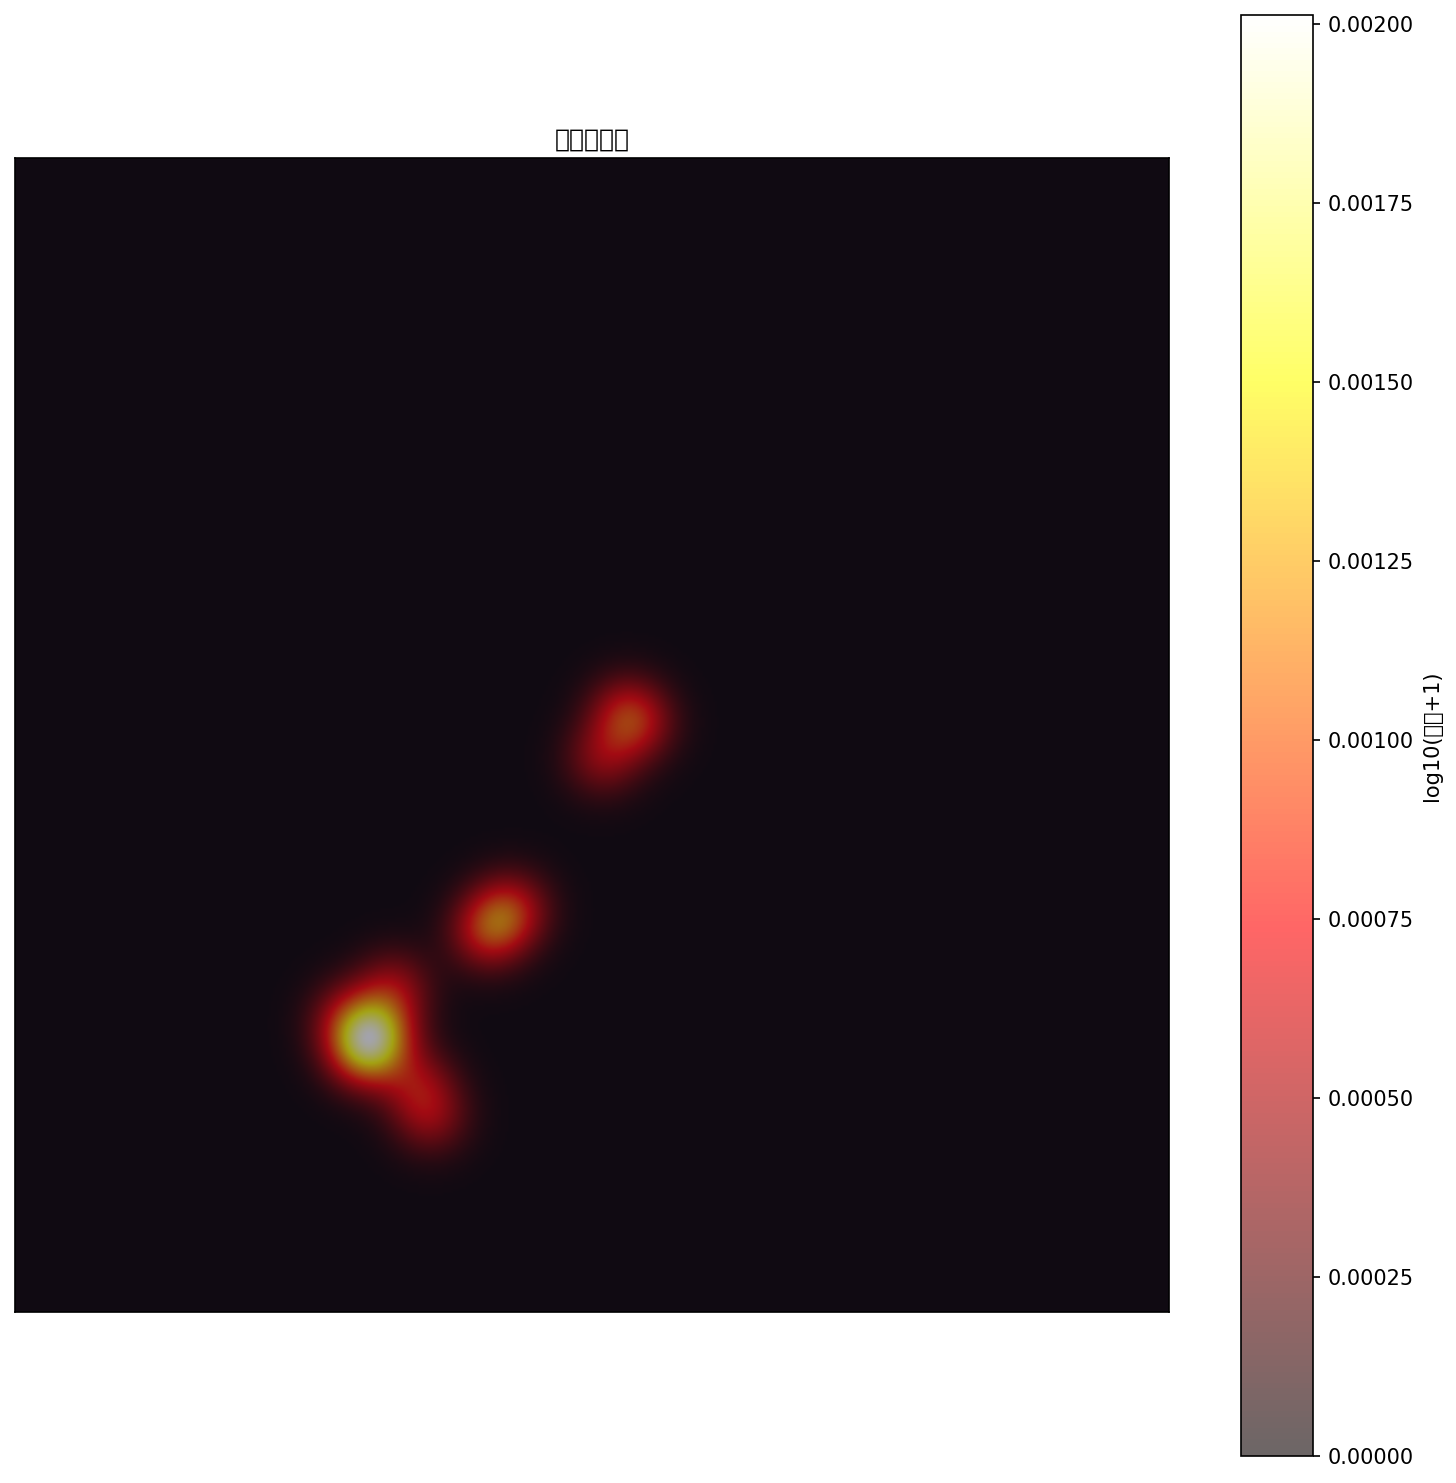
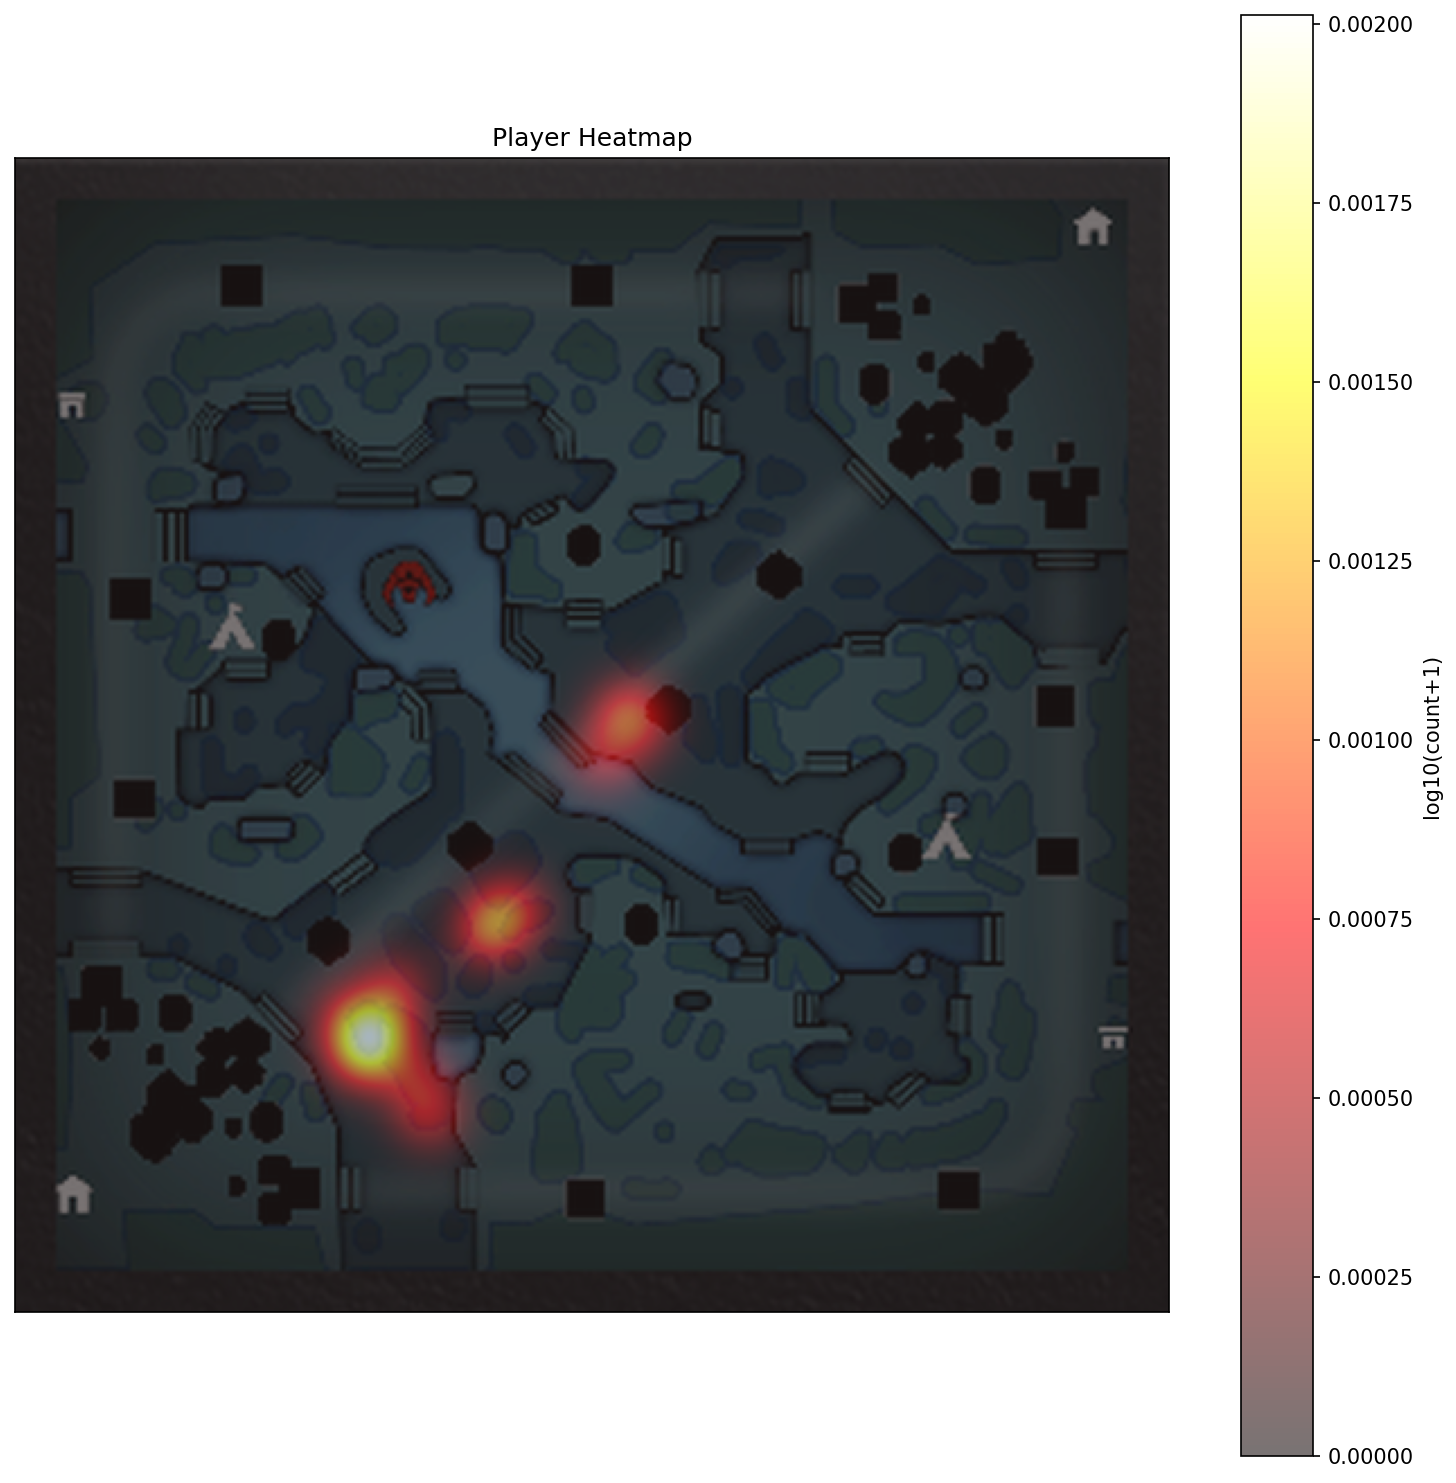
first

diff --git a/src/dota_pro_analysis/viz/map_loader.py b/src/dota_pro_analysis/viz/map_loader.py
@@ -1,0 +1,76 @@
+"""统一加载 Dota 2 地图底图：优先使用本地 assets，可选自动下载。"""
+from __future__ import annotations
+
+from pathlib import Path
+from typing import Any
+
+# 默认地图图片来源（Dota 2 小地图风格，社区资源）
+DEFAULT_MAP_URL = (
+    "https://raw.githubusercontent.com/KaiSforza/dotaMinimapCovers/master/dota700_minimap_1080_large.png"
+)
+
+
+def _project_roots() -> list[Path]:
+    """项目根目录及当前工作目录。"""
+    roots = [Path.cwd()]
+    try:
+        # 包所在位置 -> 项目根（src/dota_pro_analysis/viz -> 上三级）
+        roots.append(Path(__file__).resolve().parent.parent.parent.parent)
+    except Exception:
+        pass
+    return roots
+
+
+def get_map_path() -> Path | None:
+    """返回第一个找到的地图文件路径；未找到返回 None。"""
+    names = ["dota_minimap.png", "dota_map.png", "map.png", "minimap.png", "dota700_minimap_1080_large.png"]
+    for root in _project_roots():
+        for name in names:
+            p = root / "assets" / name
+            if p.is_file():
+                return p
+    return None
+
+
+def ensure_map_downloaded(force: bool = False) -> Path | None:
+    """
+    若 assets 下没有地图图，则从默认 URL 下载到 assets/dota_minimap.png。
+    force=True 时强制重新下载。
+    成功返回保存路径，失败返回 None。
+    """
+    for root in _project_roots():
+        assets = root / "assets"
+        dest = assets / "dota_minimap.png"
+        if dest.is_file() and not force:
+            return dest
+        try:
+            import urllib.request
+            assets.mkdir(parents=True, exist_ok=True)
+            urllib.request.urlretrieve(DEFAULT_MAP_URL, dest)
+            if dest.is_file():
+                return dest
+        except Exception:
+            continue
+    return None
+
+
+def load_map_image(size: int = 1024, download_if_missing: bool = True) -> Any:
+    """
+    加载地图底图并缩放到 size x size，返回 numpy 数组 (H, W, C) 或 None。
+    download_if_missing: 若本地无图则尝试下载后再加载。
+    """
+    import numpy as np
+    path = get_map_path()
+    if path is None and download_if_missing:
+        path = ensure_map_downloaded()
+    if path is None:
+        return None
+    try:
+        from PIL import Image
+        img = Image.open(path)
+        if img.mode != "RGB":
+            img = img.convert("RGB")
+        arr = np.array(img.resize((size, size), Image.Resampling.LANCZOS))
+        return arr
+    except Exception:
+        return None

diff --git a/src/dota_pro_analysis/cli.py b/src/dota_pro_analysis/cli.py
@@ -12,6 +12,7 @@ from .analyzers import aggregate_draft_stats, parse_draft_from_match
 from .config import load_config
 from .parsers import ReplayParser
 from .viz import draw_ward_map, draw_heatmap, export_draft_stats
+from .viz.map_loader import ensure_map_downloaded
 
 
 def cmd_draft(args: argparse.Namespace) -> int:
@@ -100,6 +101,16 @@ def cmd_heatmap(args: argparse.Namespace) -> int:
     return 0
 
 
+def cmd_download_map(args: argparse.Namespace) -> int:
+    """下载 Dota 2 小地图底图到 assets/dota_minimap.png。"""
+    path = ensure_map_downloaded(force=args.force)
+    if path:
+        print(f"地图已保存: {path.resolve()}")
+        return 0
+    print("下载失败（请检查网络）。也可手动将地图 PNG 放入项目 assets/ 目录，命名为 dota_minimap.png。")
+    return 1
+
+
 def main() -> int:
     parser = argparse.ArgumentParser(description="Dota 2 职业比赛分析：选禁统计、眼位图、热力图")
     parser.add_argument("--version", action="version", version=__version__)
@@ -125,6 +136,10 @@ def main() -> int:
     p_heat.add_argument("-o", "--output", type=str, default=None, help="输出图片或目录")
     p_heat.add_argument("--title", type=str, default=None, help="图标题")
     p_heat.set_defaults(run=cmd_heatmap)
+
+    p_map = sub.add_parser("download-map", help="下载 Dota 2 地图底图到 assets/")
+    p_map.add_argument("--force", action="store_true", help="强制重新下载")
+    p_map.set_defaults(run=cmd_download_map)
 
     args = parser.parse_args()
     if not args.command:

diff --git a/src/dota_pro_analysis/viz/heatmap.py b/src/dota_pro_analysis/viz/heatmap.py
@@ -12,19 +12,7 @@ from scipy.ndimage import gaussian_filter
 
 from ..config import get_output_dir
 from ..parsers.replay import MAP_SIZE_X, MAP_SIZE_Y, game_to_normalized
-
-
-def _load_map_image(size: int = 512) -> np.ndarray | None:
-    for base in [Path(__file__).resolve().parent.parent.parent, Path.cwd()]:
-        for name in ["dota_map.png", "dota_minimap.png", "map.png"]:
-            p = base / "assets" / name
-            if p.is_file():
-                try:
-                    from PIL import Image
-                    return np.array(Image.open(p).resize((size, size)))
-                except Exception:
-                    pass
-    return None
+from .map_loader import load_map_image
 
 
 def draw_heatmap(
@@ -77,9 +65,9 @@ def draw_heatmap(
     ax.set_xlim(0, map_size)
     ax.set_ylim(0, map_size)
 
-    bg = _load_map_image(map_size)
+    bg = load_map_image(map_size)
     if bg is not None:
-        ax.imshow(bg[::-1, :], origin="lower", extent=[0, map_size, 0, map_size], cmap="gray", alpha=0.7)
+        ax.imshow(bg[::-1, :], origin="lower", extent=[0, map_size, 0, map_size], alpha=0.85, zorder=0)
     else:
         ax.set_facecolor("#1a1a2e")
 
@@ -88,8 +76,9 @@ def draw_heatmap(
         origin="lower",
         extent=[0, map_size, 0, map_size],
         cmap="hot",
-        alpha=0.6,
+        alpha=0.55,
         interpolation="bilinear",
+        zorder=1,
     )
     plt.colorbar(im, ax=ax, label="log10(count+1)")
     ax.set_title(title)

diff --git a/src/dota_pro_analysis/viz/ward_map.py b/src/dota_pro_analysis/viz/ward_map.py
@@ -12,21 +12,7 @@ import numpy as np
 from ..config import get_output_dir
 from ..data.models import WardPlacement
 from ..parsers.replay import game_to_normalized
-
-
-def _load_map_image(size: int = 1024) -> np.ndarray | None:
-    """加载地图底图；若不存在则返回 None，用纯色代替。"""
-    for base in [Path(__file__).resolve().parent.parent.parent, Path.cwd()]:
-        for name in ["dota_map.png", "dota_minimap.png", "map.png", "minimap.png"]:
-            p = base / "assets" / name
-            if p.is_file():
-                try:
-                    from PIL import Image
-                    img = np.array(Image.open(p).resize((size, size)))
-                    return img
-                except Exception:
-                    pass
-    return None
+from .map_loader import load_map_image
 
 
 def draw_ward_map(
@@ -77,7 +63,7 @@ def draw_ward_map(
     ax.set_xlim(0, map_size)
     ax.set_ylim(0, map_size)
 
-    bg = _load_map_image(map_size)
+    bg = load_map_image(map_size)
     if bg is not None:
         # 图像坐标系 y 向下，我们约定 y 向上（游戏左下角原点）
         ax.imshow(bg[::-1, :], origin="lower", extent=[0, map_size, 0, map_size], zorder=0)

diff --git a/README.md b/README.md
@@ -42,6 +42,16 @@ replay_dir: "replays"
 
 ## 使用
 
+### 地图底图（眼位图 / 热力图）
+
+眼位图和热力图会使用 **Dota 2 真实小地图** 作为底图，更直观。首次使用前请先下载地图：
+
+```bash
+python -m dota_pro_analysis.cli download-map
+```
+
+会将地图保存到项目目录下的 `assets/dota_minimap.png`。若未下载，生成眼位图/热力图时会自动尝试下载；也可手动将任意 Dota 2 小地图 PNG 放入 `assets/` 并命名为 `dota_minimap.png` 或 `dota_map.png`。
+
 ### 1. 选禁统计与胜率（无需录像，仅用 OpenDota API）
 
 拉取最近职业比赛并生成英雄选择/禁用率与胜率 JSON：
